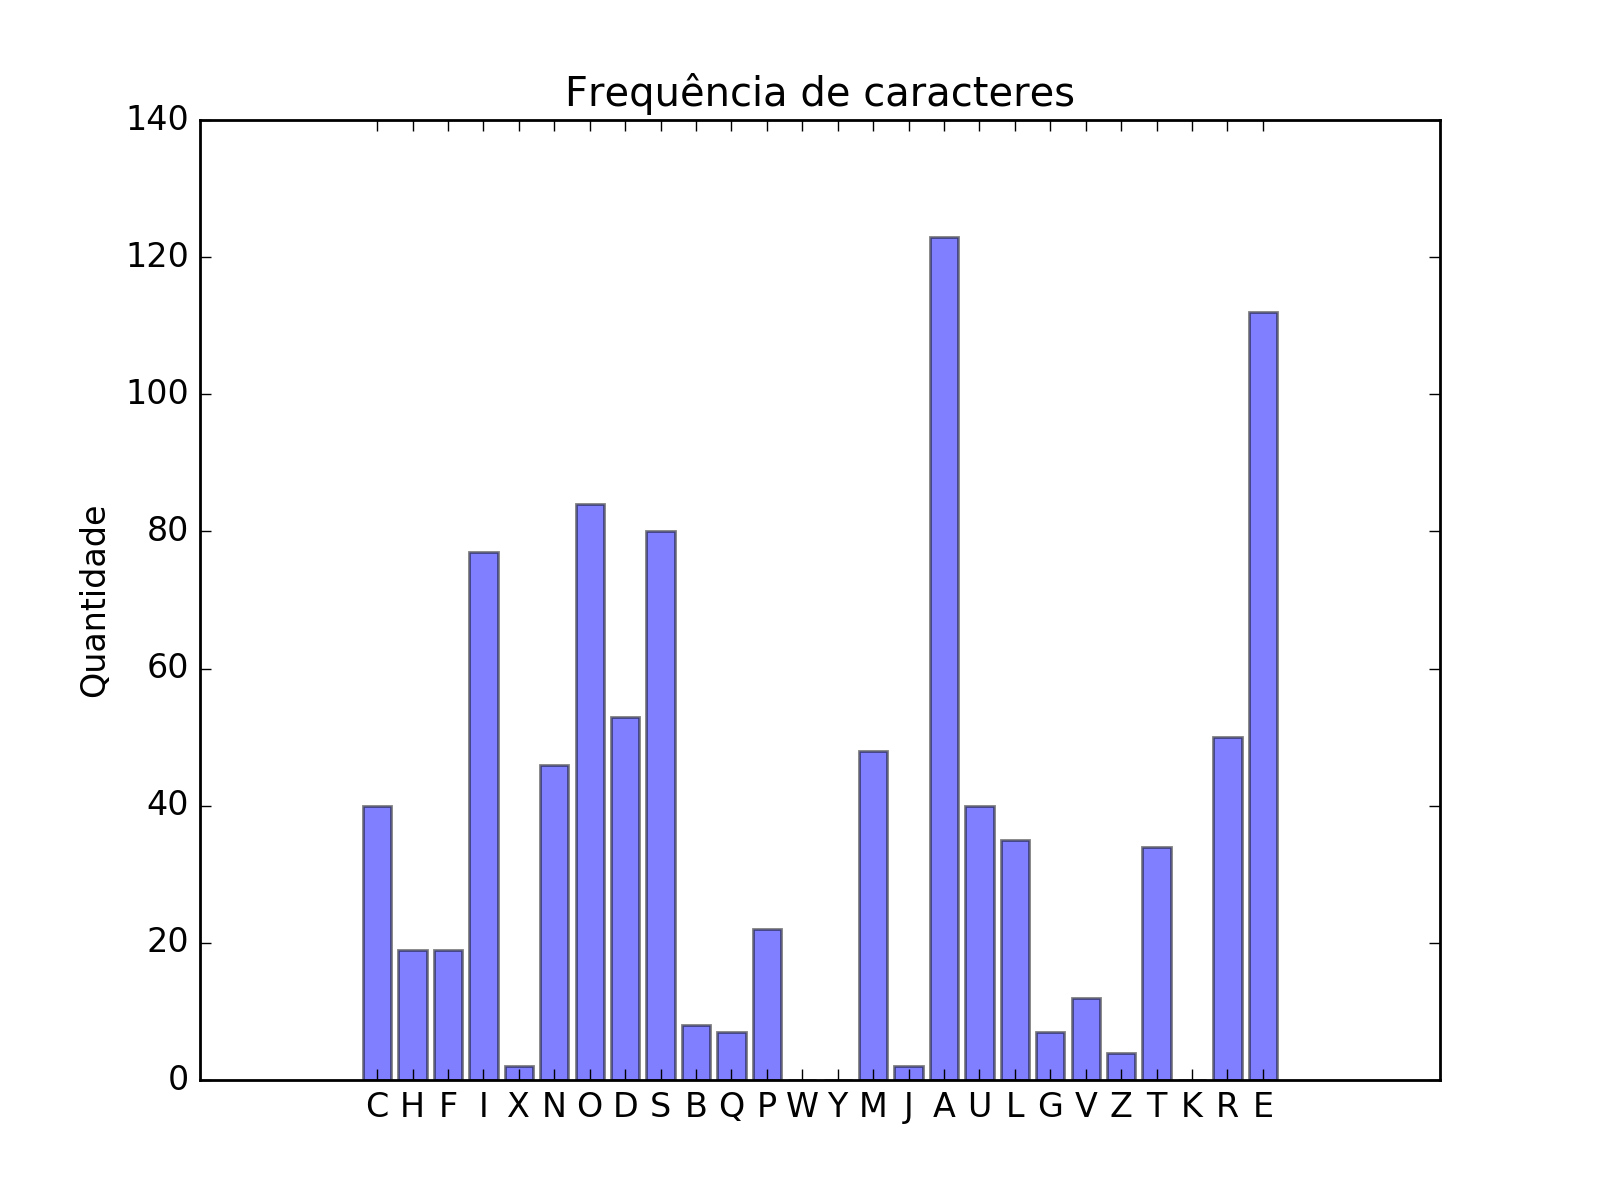
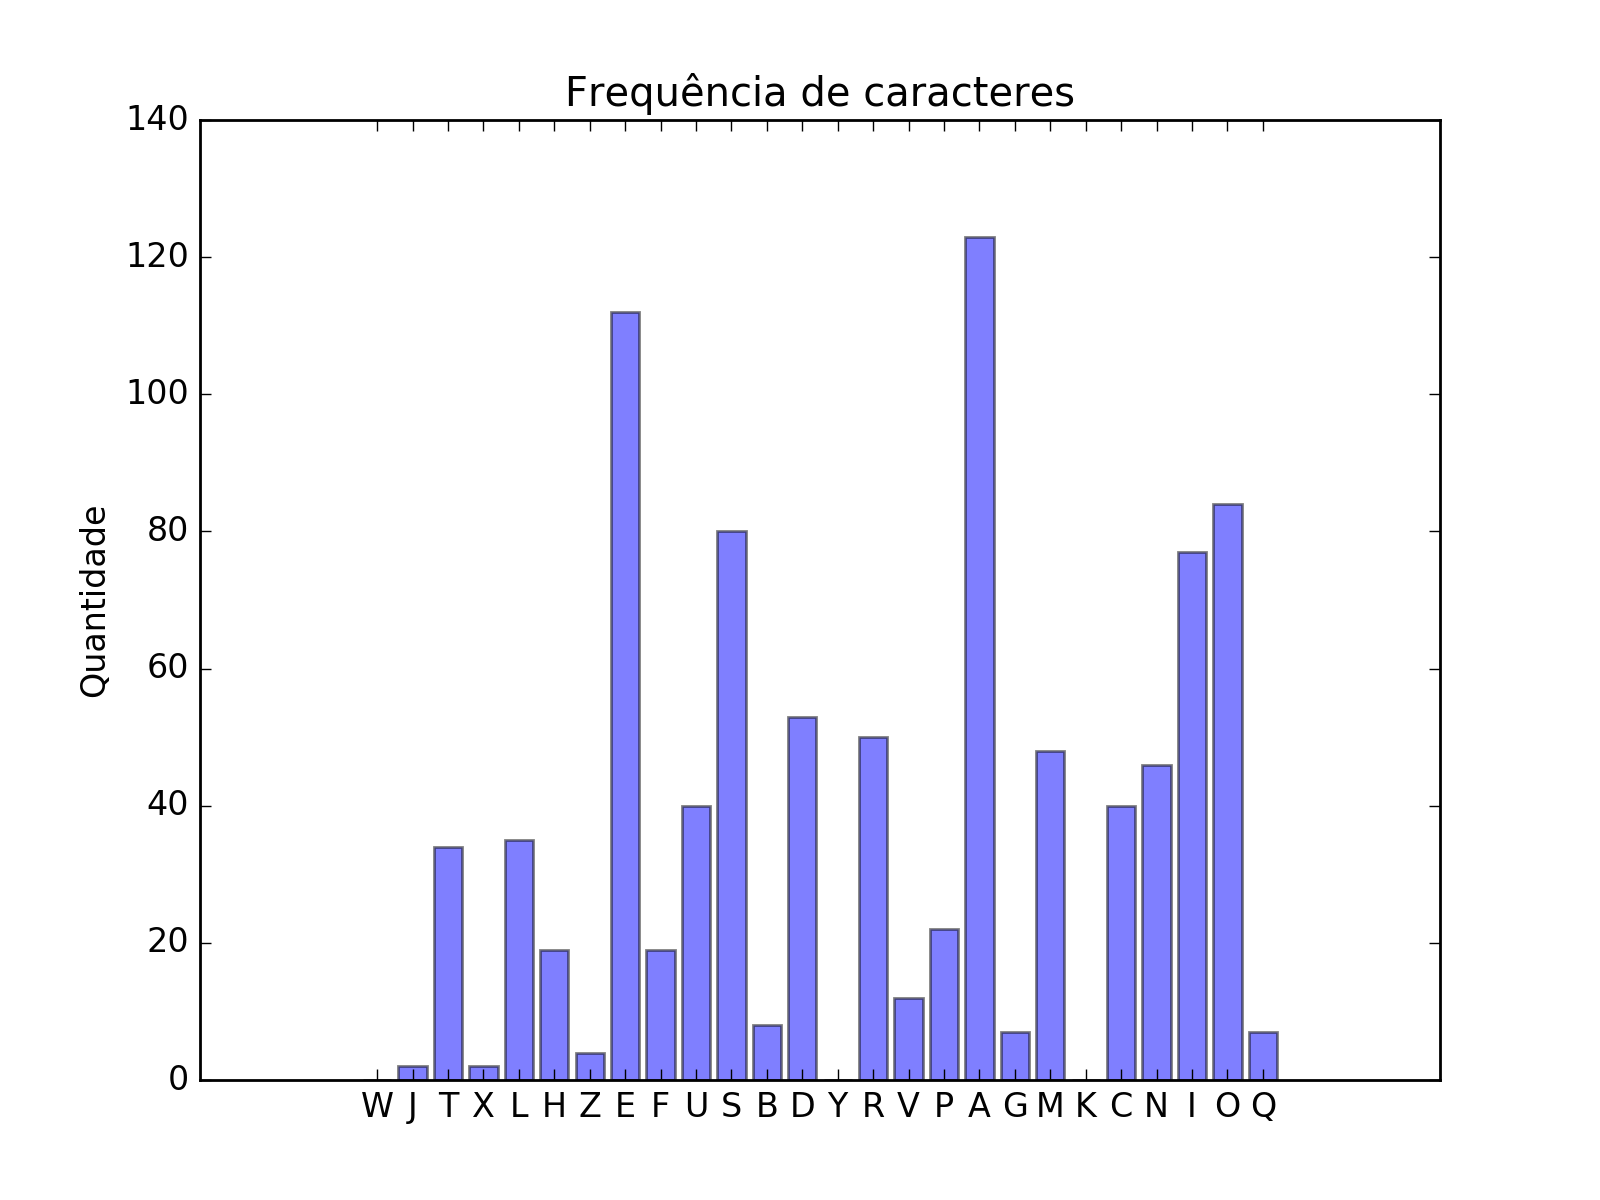
analise de f requencias-actualizacao

Changed region(s): [[0.2188, 0.185, 0.8125, 0.925]]

diff --git a/analise_fre_q.py b/analise_fre_q.py
@@ -1,0 +1,109 @@
+#!/usr/bin/env python3
+# -*- coding: utf-8 -*-
+
+# USAR APENAS O "LETTERS" PRETENDIDO. NO MATPLOTLIB NAO APARECEM ACENTUAÇÕES OU CARACTERES ESPECIAIS
+#LETRAS = 'ẼÍÉÓÁÀ1234567890ÕÃÇABCDEFGHIJKLMNOPQRSTUVWXYZ'
+LETRAS = 'ABCDEFGHIJKLMNOPQRSTUVWXYZ'
+print("LETRAS:%s" % len(LETRAS))
+
+def ContarLetras(texto):
+    # Devolve dicionario com todas as letras e o seu valor numerico
+
+    #USAR APENAS O LETTERCOUNT PRETENDIDO. NO MATPLOTLIB NAO APARECEM ACENTUAÇÕES OU CARACTERES ESPECIAIS
+    letterCount = {'Ẽ':0,'Í':0,'É':0,'Ó': 0,'Á': 0,'À': 0,
+        '1': 0,'2': 0,'3': 0,'4': 0,'5': 0,'6': 0,'7': 0,'8': 0,'9':0,'0':0,
+        'Õ':0,'Ã':0,'Ç': 0,
+        'A': 0, 'B': 0, 'C': 0, 'D': 0, 'E': 0, 'F': 0, 'G': 0, 'H': 0, 'I': 0, 'J': 0, 'K': 0, 'L': 0, 'M': 0, 'N': 0, 'O': 0, 'P': 0, 'Q': 0, 'R': 0, 'S': 0, 'T': 0, 'U': 0, 'V': 0, 'W': 0, 'X': 0, 'Y': 0, 'Z': 0
+        }
+    #abecedario normal-26
+    letterCount = {
+        'A': 0, 'B': 0, 'C': 0, 'D': 0, 'E': 0, 'F': 0, 'G': 0, 'H': 0, 'I': 0, 'J': 0, 'K': 0, 'L': 0, 'M': 0, 'N': 0, 'O': 0, 'P': 0, 'Q': 0, 'R': 0, 'S': 0, 'T': 0, 'U': 0, 'V': 0, 'W': 0, 'X': 0, 'Y': 0, 'Z': 0
+        }
+
+
+    for letter in texto.upper():
+        if letter in LETRAS:
+            letterCount[letter] += 1
+
+    return letterCount
+
+texto="""Ó Minha Felicidade
+Revejo os pombos de São Marcos:
+A praça está silenciosa; ali se repousa a manhã.
+Indolentemente envio os meus cantos para o seio da suave frescura,
+Como enxames de pombos para o azul
+Depois torno a chamá;-los
+Para prender mais uma rima &agrave;s suas penas.
+&mdash; ó minha felicidade! ó minha felicidade!
+ã
+Calmo céu, céu azul-claro, céu de seda,
+Planas, protector, sobre o edifício multicor
+De que gosto, que digo eu?... Que receio, queá»invejo...
+Como seria feliz bebendo-lhe a alma!
+Alguma vez lha devolveria?
+Não, não falemos disso, ó maravilha dos olhos!
+&mdash; ó minha felicidade! ó minha felicidade!
+ã
+Severa torre, que impulso leonino
+Te levantou ali, triunfante e sem custo!
+Dominas a praça com o som profundo dos teus sinos...
+Serias, em francês, o seu «accent aigu»!
+Se, como tu, eu ficasse aqui,
+Saberia a seda que me prende...
+&mdash; ó minha felicidade! ó minha felicidade!
+ã
+Afasta-te, m&uacute;sica. Deixa primeiro as sombras engrossar
+E crescer até &agrave; noite escura e tépida.
+é ainda muito cedo para ti, os teus arabescos de ouro
+Ainda não cintilam no seu esplendor de rosa;
+Resta ainda muito dia,
+Muito dia para os poetas, fantasmas e solitá;rios.
+&mdash; ó minha felicidade! ó minha felicidade!
+"""
+
+#texto="aaa bb c"
+letras=(ContarLetras(texto))
+
+
+CHAVE=[]
+QUANTIDADE=[]
+LINHA=""
+
+for k, v in letras.items():
+    CHAVE.append(k)
+    QUANTIDADE.append(v)
+    LINHA=("%s%s"% (LINHA,k))
+
+LINHA=LINHA[:-1]
+print("Tamanho:%s %s" % (len(LINHA),LINHA))
+print("qtd:%s %s" % (len(QUANTIDADE),QUANTIDADE))
+
+import matplotlib.pyplot as plt;
+
+plt.rcdefaults()
+import numpy as np
+import matplotlib.pyplot as plt
+
+
+y_pos = np.arange(len(CHAVE))
+
+#44 PARA TODAS AS LETRAS. 26 PARA ALGUMAS
+for i in range(26):
+    print(i,CHAVE[i],QUANTIDADE[i])
+
+plt.bar(y_pos, QUANTIDADE, align='center', alpha=0.5)
+plt.xticks(y_pos, CHAVE)
+plt.ylabel('Quantidade')
+plt.title('Frequência de caracteres')
+
+#MOSTRAR OU GRAVAR
+#plt.show()
+plt.savefig("foo.png",dpi=200)
+
+#instrucoes para o git
+#git clone https://github.com/........git
+#git add *
+#git config --global user.email "email"
+#git commit -m "Commit message"
+#git push origin master
+#colocar email e depois a passe
